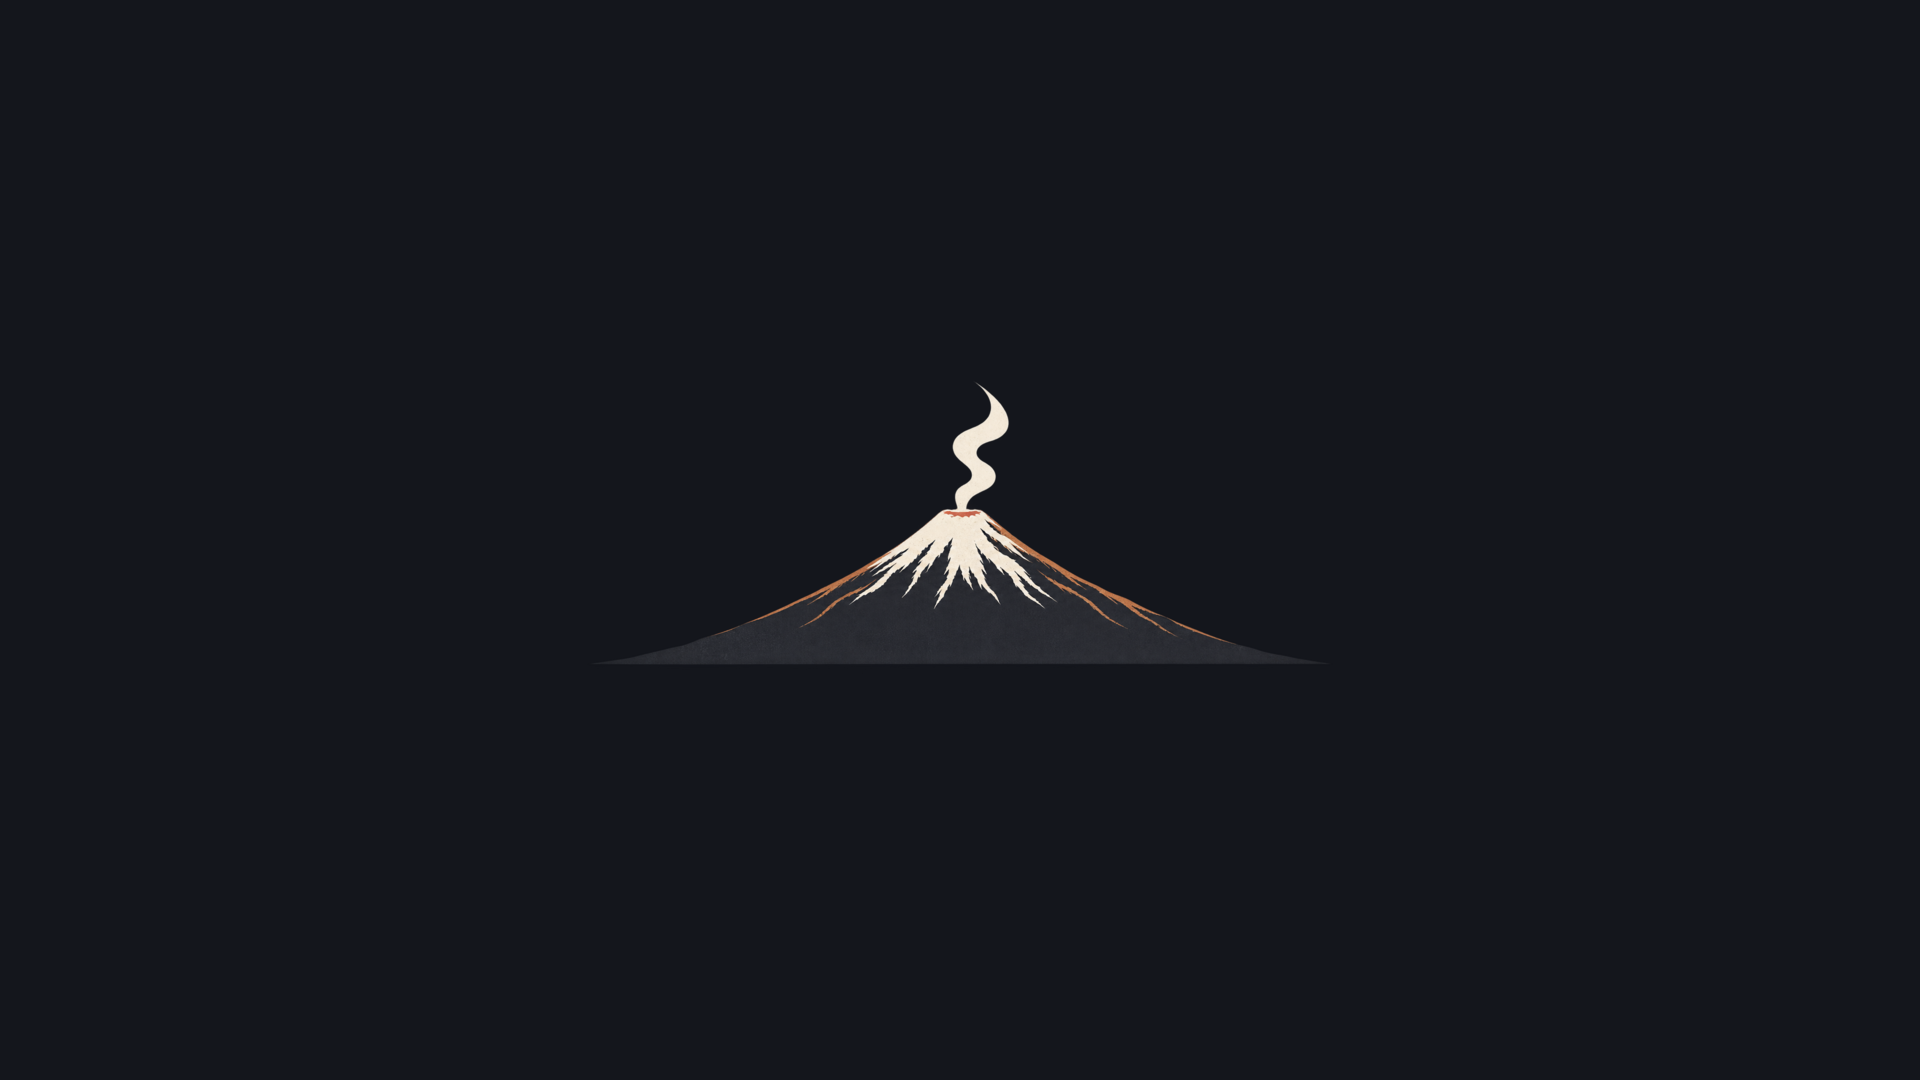
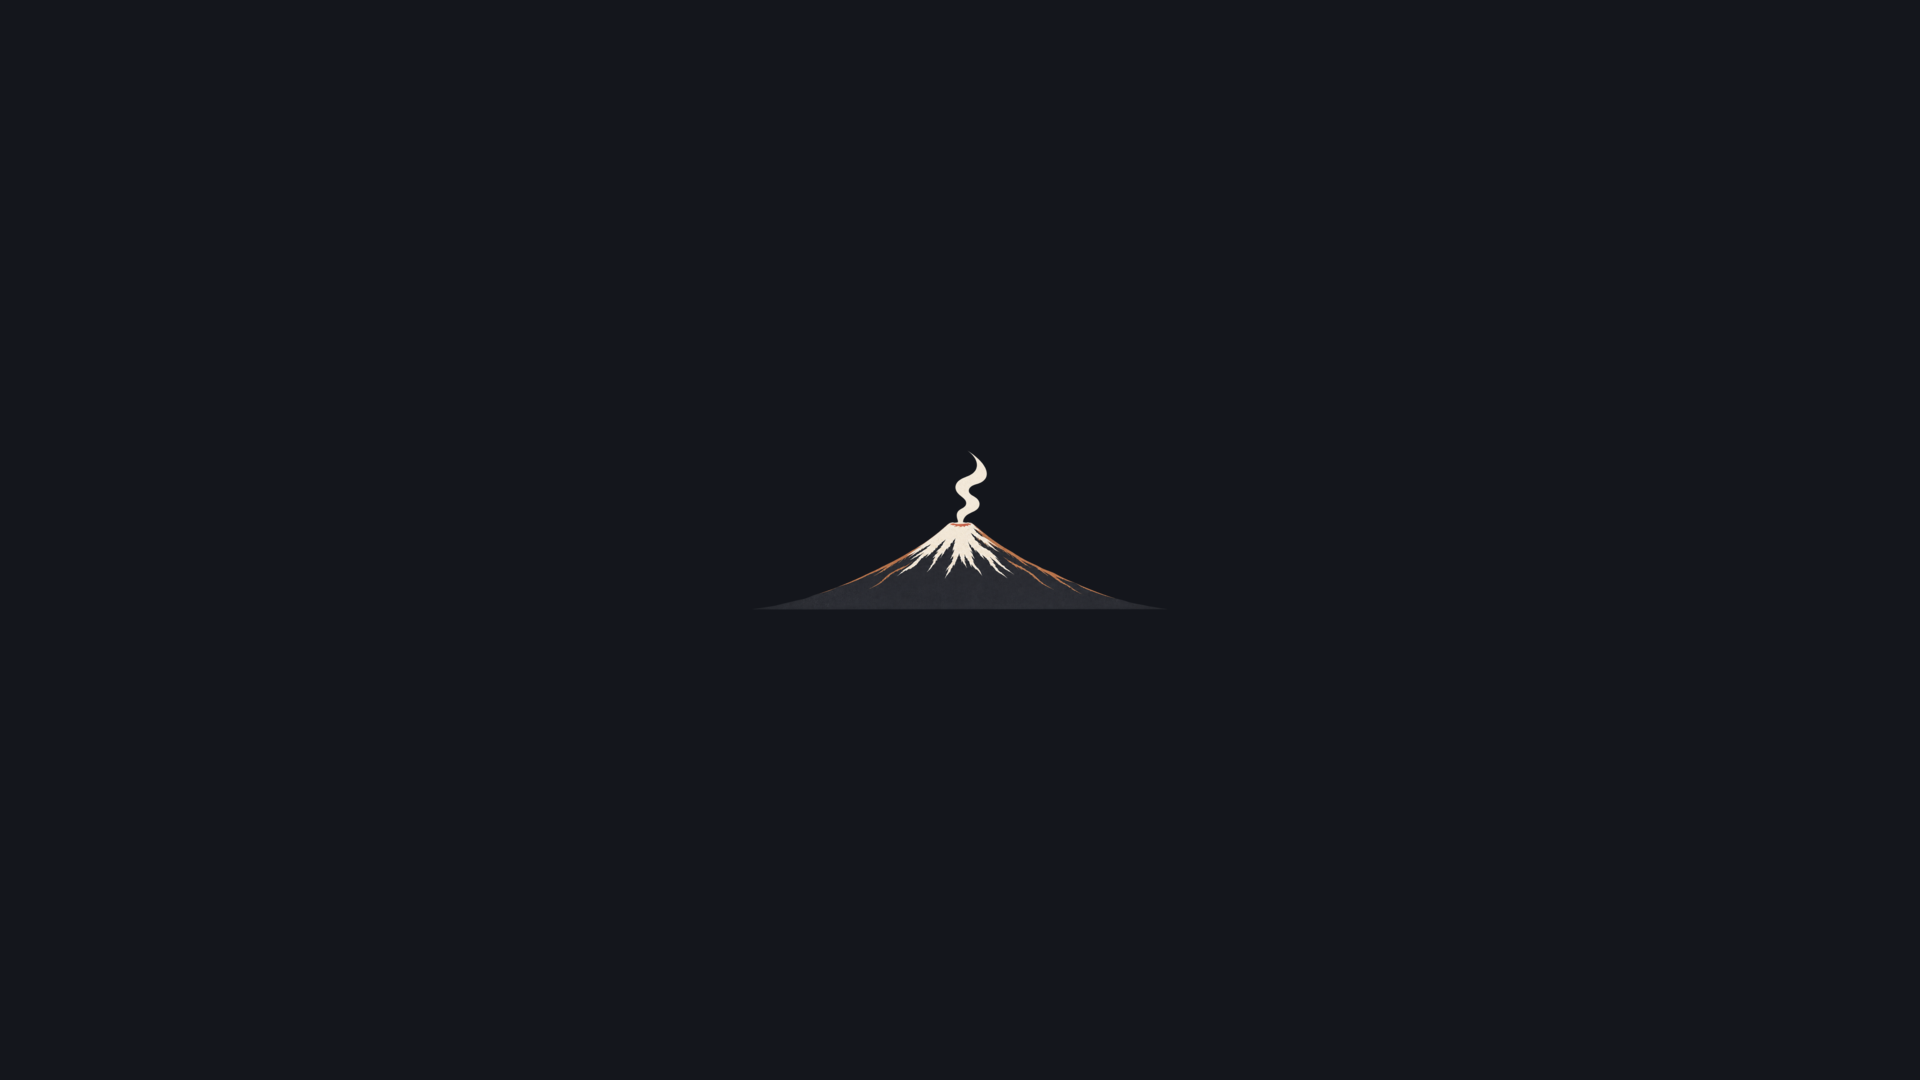
Add minimal Japan wallpapers and resize unlock art

Changed region(s): [[0.4375, 0.3667, 0.5625, 0.55], [0.5, 0.55, 0.6562, 0.6111], [0.3438, 0.55, 0.4375, 0.6111]]

diff --git a/README.md b/README.md
@@ -13,8 +13,9 @@ omarchy theme set kuro-japan
 ## Included
 
 - Soft charcoal surfaces with a pure-black top bar
-- Mount Fuji, Lawson with Mount Fuji, and Tokyo Tower wallpapers
-- Transparent Mount Fuji unlock art with a small smoke plume
+- Bright, minimal Japan scenes: Mount Fuji, Lawson with Mount Fuji, Tokyo Tower,
+  Itsukushima torii, Himeji Castle, and a Fuji train view
+- Compact centered Mount Fuji unlock art with a small smoke plume
 - Generated terminal, shell, editor, browser, and system-tool colors through `colors.toml`
 
 ## Wallpaper controls
